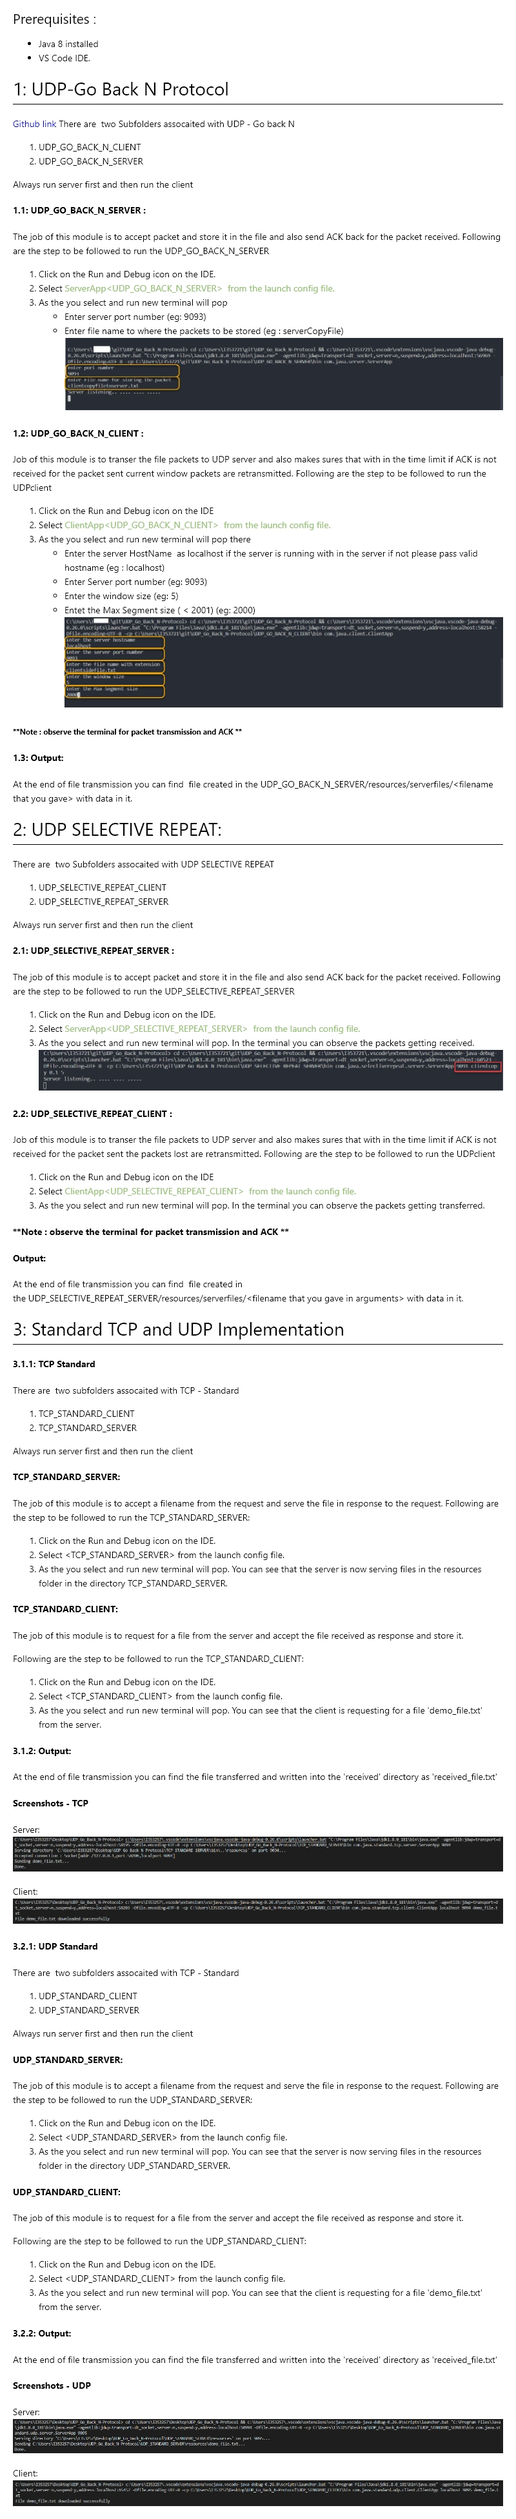
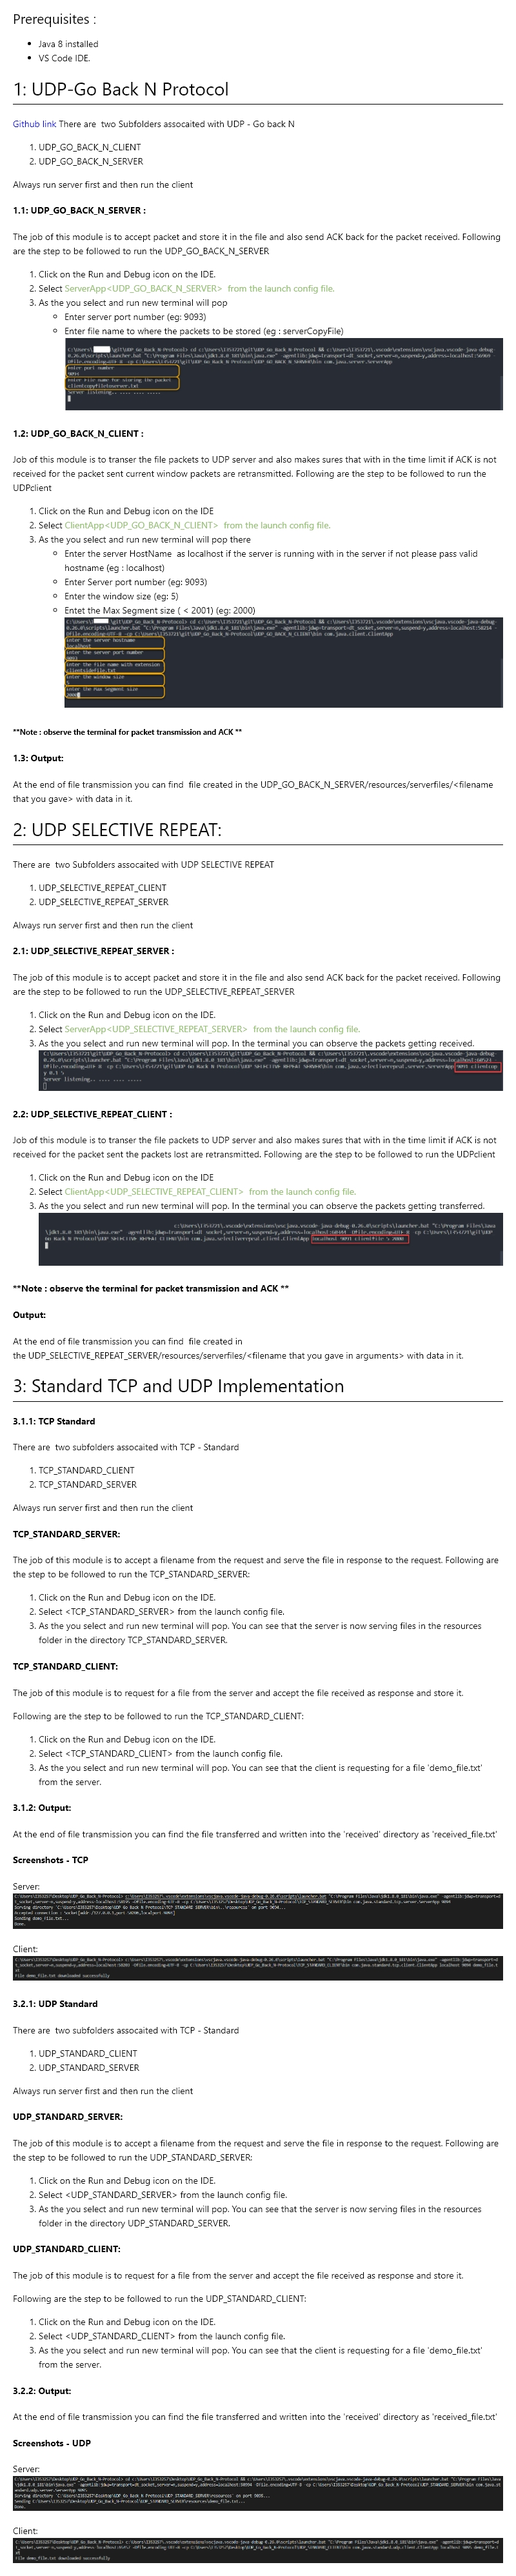
updated

Changed region(s): [[0.0, 0.0, 1.0, 0.9995], [0.8125, 0.5934, 0.8438, 0.6247], [0.6875, 0.5934, 0.7188, 0.6247]]

diff --git a/README.html b/README.html
@@ -433,7 +433,8 @@ Following are the step to be followed to run the UDPclient</p>
 <ol>
 <li>Click on the Run and Debug icon on the IDE</li>
 <li>Select <span class="colour" style="color: rgb(152, 195, 121);">ClientApp&lt;UDP_SELECTIVE_REPEAT_CLIENT&gt;</span><span class="colour" style="color: rgb(152, 195, 121);">  from the launch config file.</span></li>
-<li>As the you select and run new terminal will pop. In the terminal you can observe the packets getting transferred.</li>
+<li>As the you select and run new terminal will pop. In the terminal you can observe the packets getting transferred.
+<img src="screenshots/sel_client.png" alt=""></li>
 </ol>
 <h4 id="note--observe-the-terminal-for-packet-transmission-and-ack">**Note : observe the terminal for packet transmission and ACK **</h4>
 <h4 id="output">Output:</h4>

diff --git a/README.md b/README.md
@@ -68,6 +68,7 @@ Following are the step to be followed to run the UDPclient
 1. Click on the Run and Debug icon on the IDE
 2. Select <span class="colour" style="color: rgb(152, 195, 121);">ClientApp<UDP\_SELECTIVE\_REPEAT\_CLIENT></span><span class="colour" style="color: rgb(152, 195, 121);">  from the launch config file.</span>
 3. As the you select and run new terminal will pop. In the terminal you can observe the packets getting transferred.
+   ![](screenshots/sel_client.png)
    
 
 #### \*\*Note : observe the terminal for packet transmission and ACK \*\*
